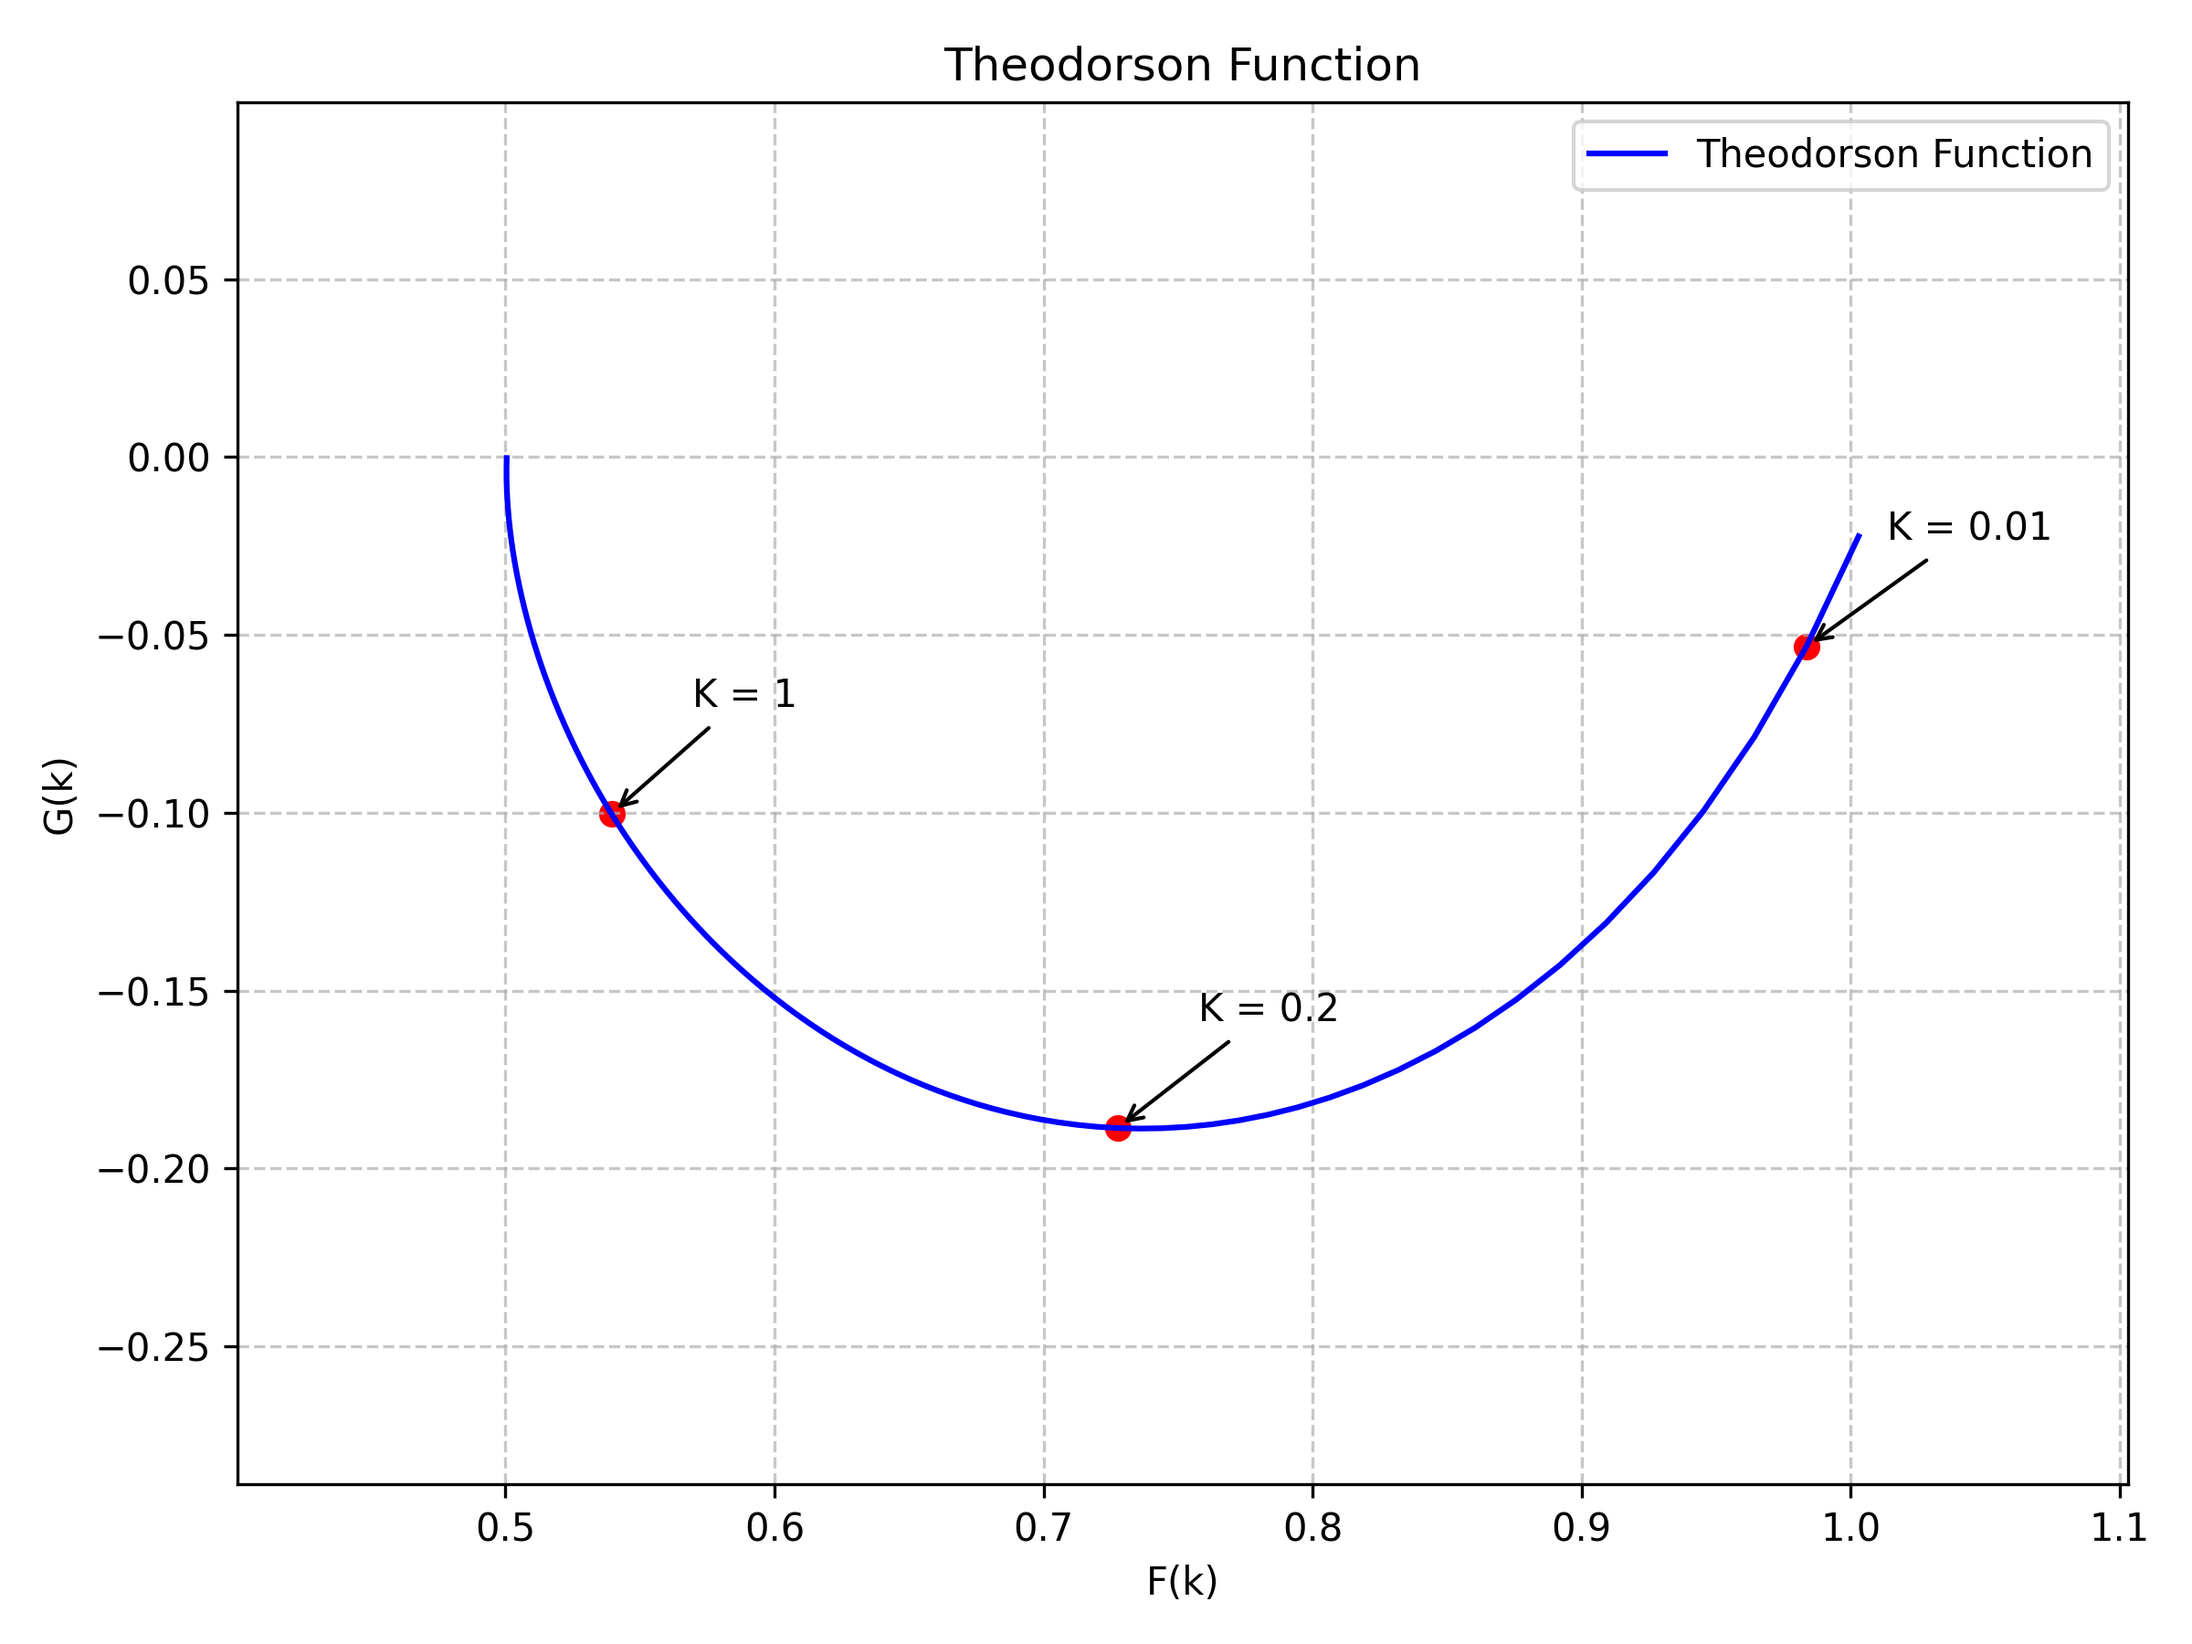
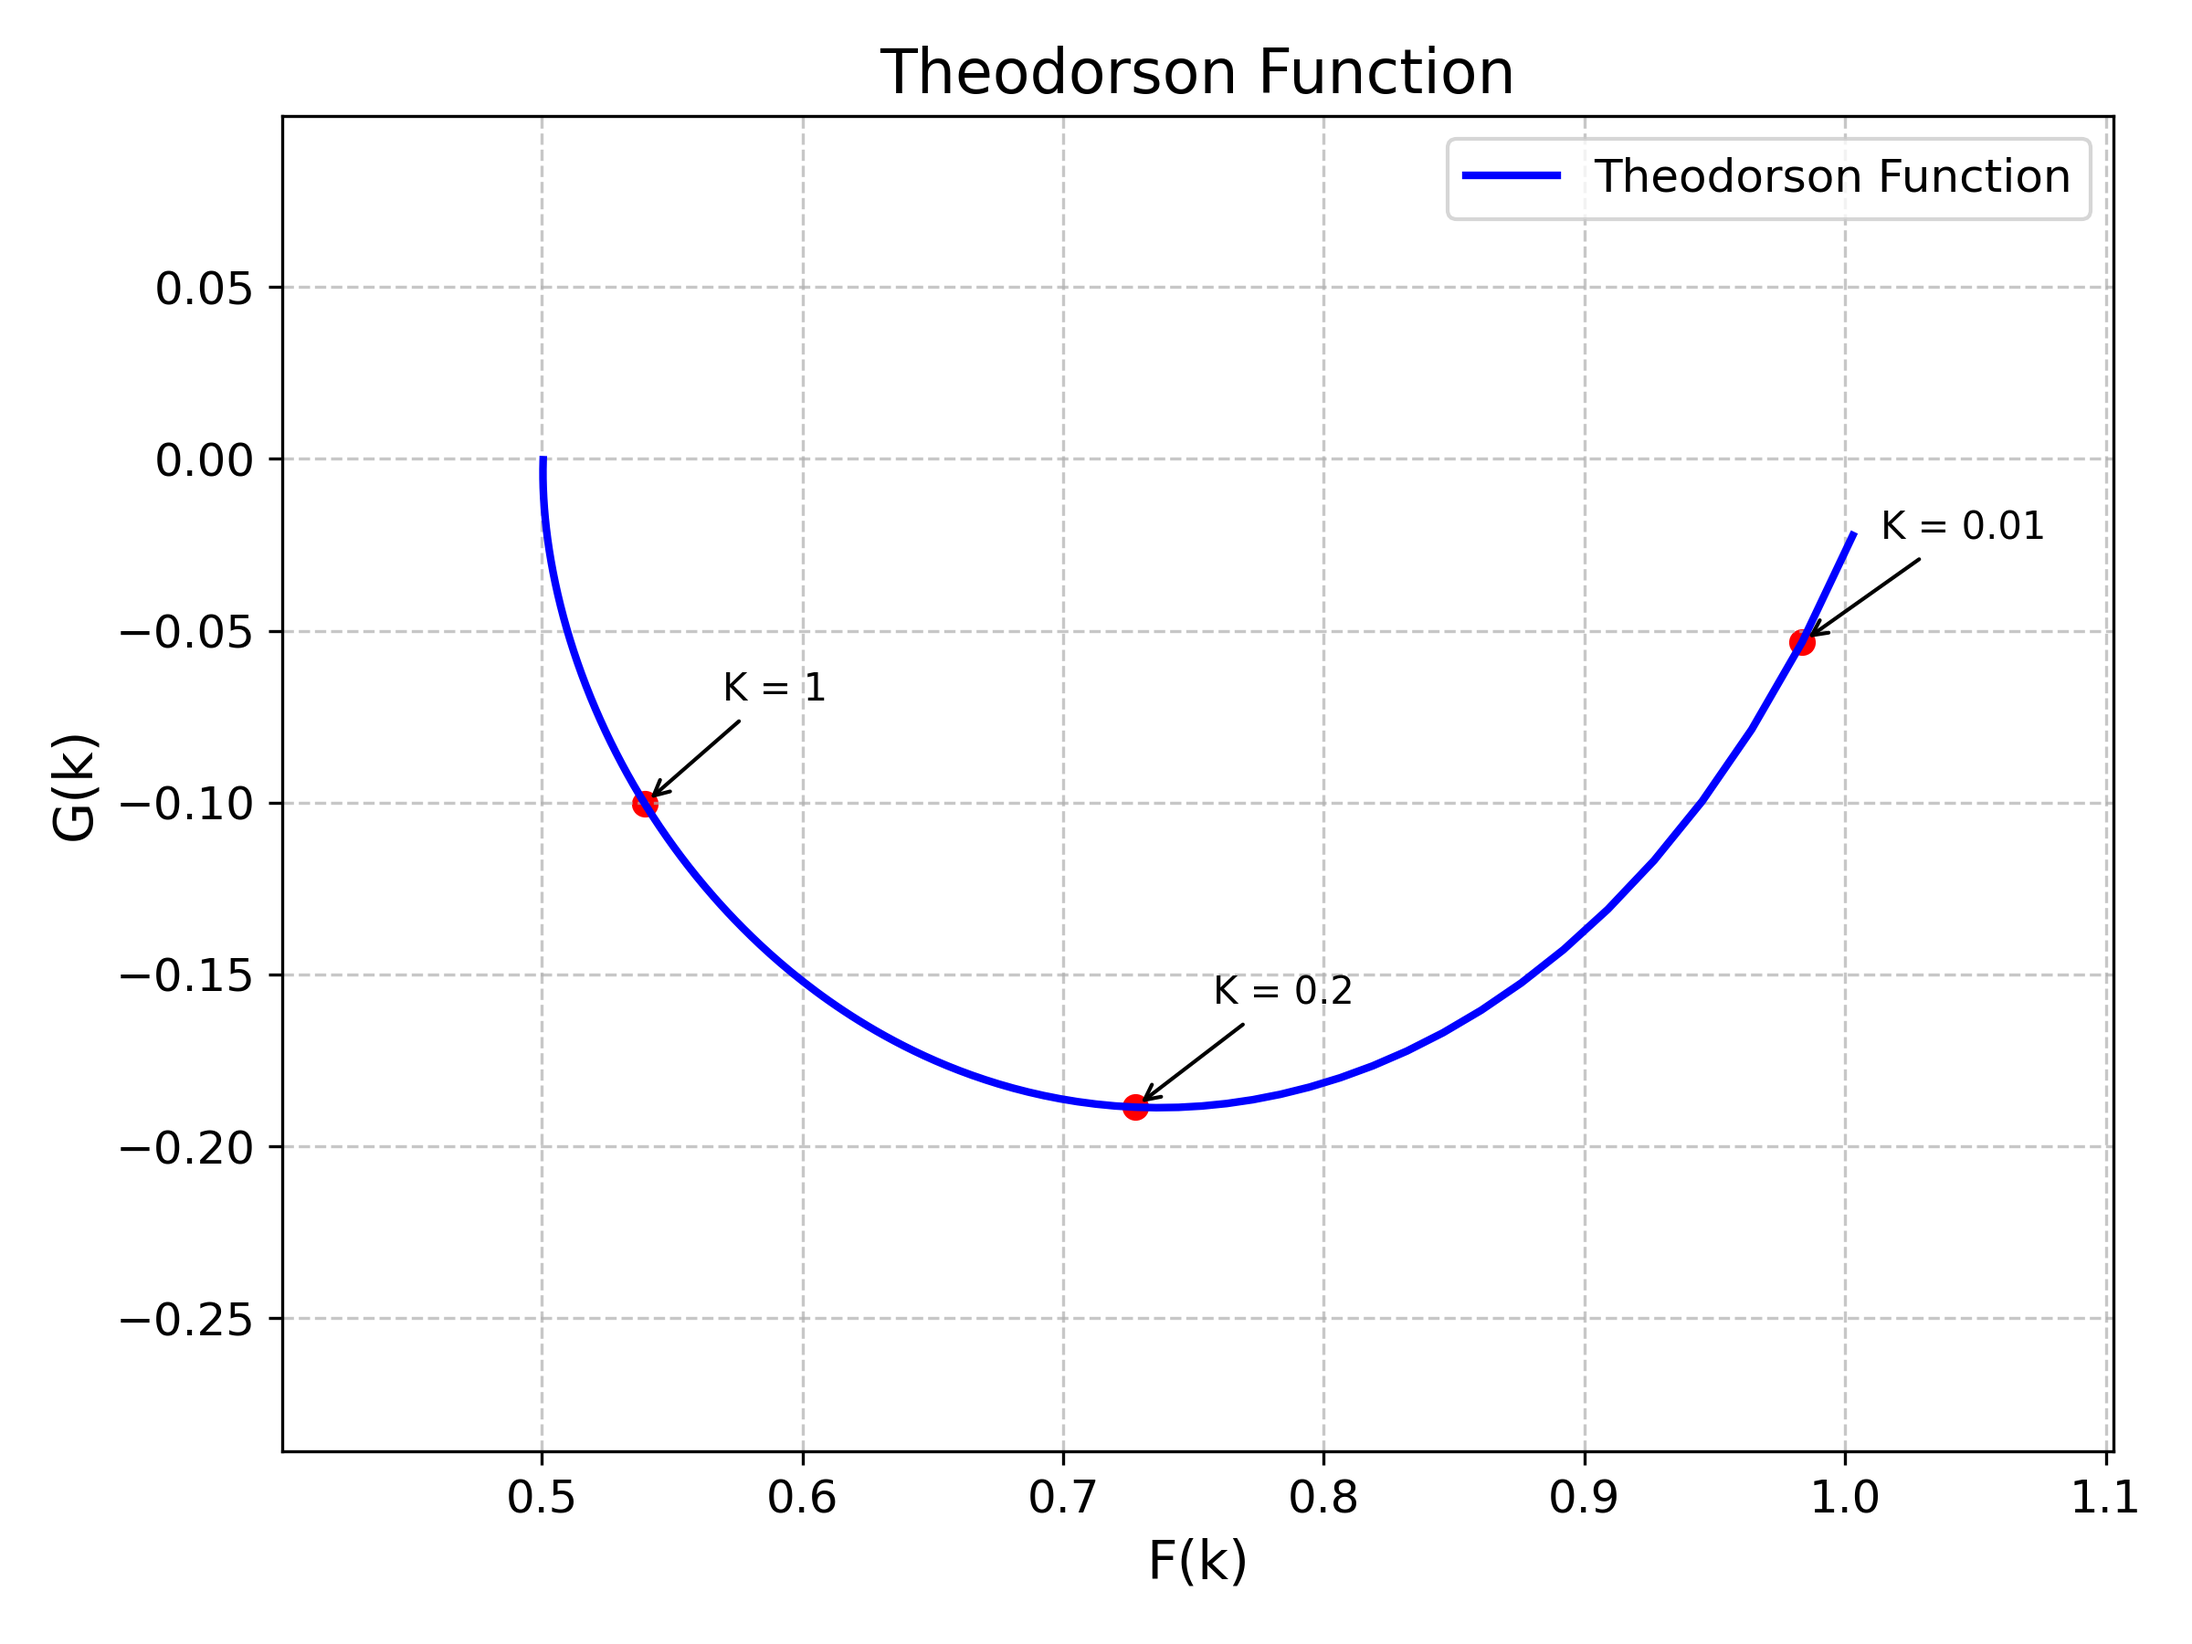
tested theodorsen at different reduced frequncy, with same pitching but different V

diff --git a/theodorsen_python/core/theodorson.py b/theodorsen_python/core/theodorson.py
@@ -17,11 +17,12 @@ def theodorson_function(k):
         (k**3 + 2.48148*k**2 + 0.93453*k + 0.08932)
     return F, G
 
-def Lift(rho, V, a, b, alpha, alpha_dot, alpha_ddot, k, h_dot=0, h_ddot=0):
+def Lift(rho, V, a, b, alpha_max, omg, n_period, h_dot=0, h_ddot=0):
     '''
     The lift coefficient is defined as:
         C_L = 2*F(K)*sin(alpha) + 2*G(K)*cos(alpha)
     '''
+    k, alpha, alpha_dot, alpha_ddot = generate_kinemtics(a, b, V, alpha_max, omg, n_period)
     F, G = theodorson_function(k)
     print(F, G)
     L_NC = np.pi*rho*b**2*(h_ddot + V*alpha_dot - b*a*alpha_ddot)
@@ -45,51 +46,68 @@ if __name__ == '__main__':
     # test generate_kinematics
     a = -1/2
     b = 1
-    V = 1
+    V = np.array([1, 1/0.7, 1/0.4, 1/0.1])
     omg = 1
     alpha_max = np.deg2rad(5)
     n_period = 2
     t = np.linspace(0, n_period*2*np.pi/omg, 100)
+
+    # test Lift
+    rho = 1.0
+    plt.figure()
+    plt.rcParams['font.size'] = 12
+    plt.rcParams['axes.labelsize'] = 14
+    plt.rcParams['axes.titlesize'] = 16
+    plt.rcParams['lines.linewidth'] = 2
+    plt.figure(figsize=(10, 6))  # Adjust the figure size
+
+    for i in range(len(V)):
+        L_NC, L_C, CL = Lift(rho, V[i], a, b, alpha_max, omg, n_period)
+        # plt.figure()
+        # plt.plot(t, L_C.real, label='L_C_real')
+        # plt.plot(t, L_NC.real+L_C.real, label='L_C_real')
+        # # plt.plot(t, L_C.imag, label='L_C_imag')
+        # plt.xlabel('t')
+        # plt.ylabel('L_C')
+        plt.plot(t, CL.real, label='Cl')
+        # plt.plot(t, CL_k1.real/100, label='CL')
+        plt.xlabel('time (s)')
+        plt.ylabel('Cl')
+        plt.grid(True)
+        plt.legend(['k=1','k=0.7', 'k=0.4','k=0.1'])
+        plt.savefig('CL.png', dpi=400)
+
+    plt.show()
+    # exit()
+
     k, alpha, alpha_dot, alpha_ddot = generate_kinemtics(a, b, V, alpha_max, omg, n_period)
 
     # plot alpha, alpha_dot, alpha_ddot
     plt.figure()
+    plt.rcParams['font.size'] = 12
+    plt.rcParams['axes.labelsize'] = 14
+    plt.rcParams['axes.titlesize'] = 16
+    plt.rcParams['lines.linewidth'] = 2
+    plt.figure(figsize=(10, 6))  # Adjust the figure size
+
     plt.plot(t, np.rad2deg(alpha), label='alpha')
     plt.plot(t, np.rad2deg(alpha_dot.real), label='alpha_dot')
     plt.plot(t, np.rad2deg(alpha_ddot.real), label='alpha_ddot')
     plt.legend(['alpha', 'alpha_dot', 'alpha_ddot'])
-
+    plt.grid(True)
+    plt.xlabel('Time')
+    plt.ylabel('Degrees')
+    plt.title('Angle and Derivatives vs Time')
+    plt.legend()
+    plt.tight_layout()
+    plt.savefig('alpha.png', dpi=400)
 
     
 
     # plt.plot(t, np.rad2deg(alpha.imag), label='imag')
-    plt.xlabel('t')
-    plt.ylabel('alpha')
+    # plt.xlabel('t')
+    # plt.ylabel('alpha')
     # plt.show()
-
-
-    # test Lift
-    rho = 1.0
-    L_NC, L_C, CL = Lift(rho, V, a, b, alpha, alpha_dot, alpha_ddot, k)
-    L_NC, L_C, CL_k1 = Lift(rho, V/10, a, b, alpha, alpha_dot, alpha_ddot, k)
-    plt.figure()
-    plt.plot(t, L_C.real, label='L_C_real')
-    plt.plot(t, L_NC.real+L_C.real, label='L_C_real')
-    # plt.plot(t, L_C.imag, label='L_C_imag')
-    plt.xlabel('t')
-    plt.ylabel('L_C')
-
-
-    plt.figure()
-    plt.plot(t, CL.real, label='CL')
-    plt.plot(t, CL_k1.real/100, label='CL')
-    plt.xlabel('t')
-    plt.ylabel('CL')
-    plt.legend(['CL', 'CL_k1'])
-
-    plt.show()
-    exit()
-
 
 
     # Plot the Theodorson function
